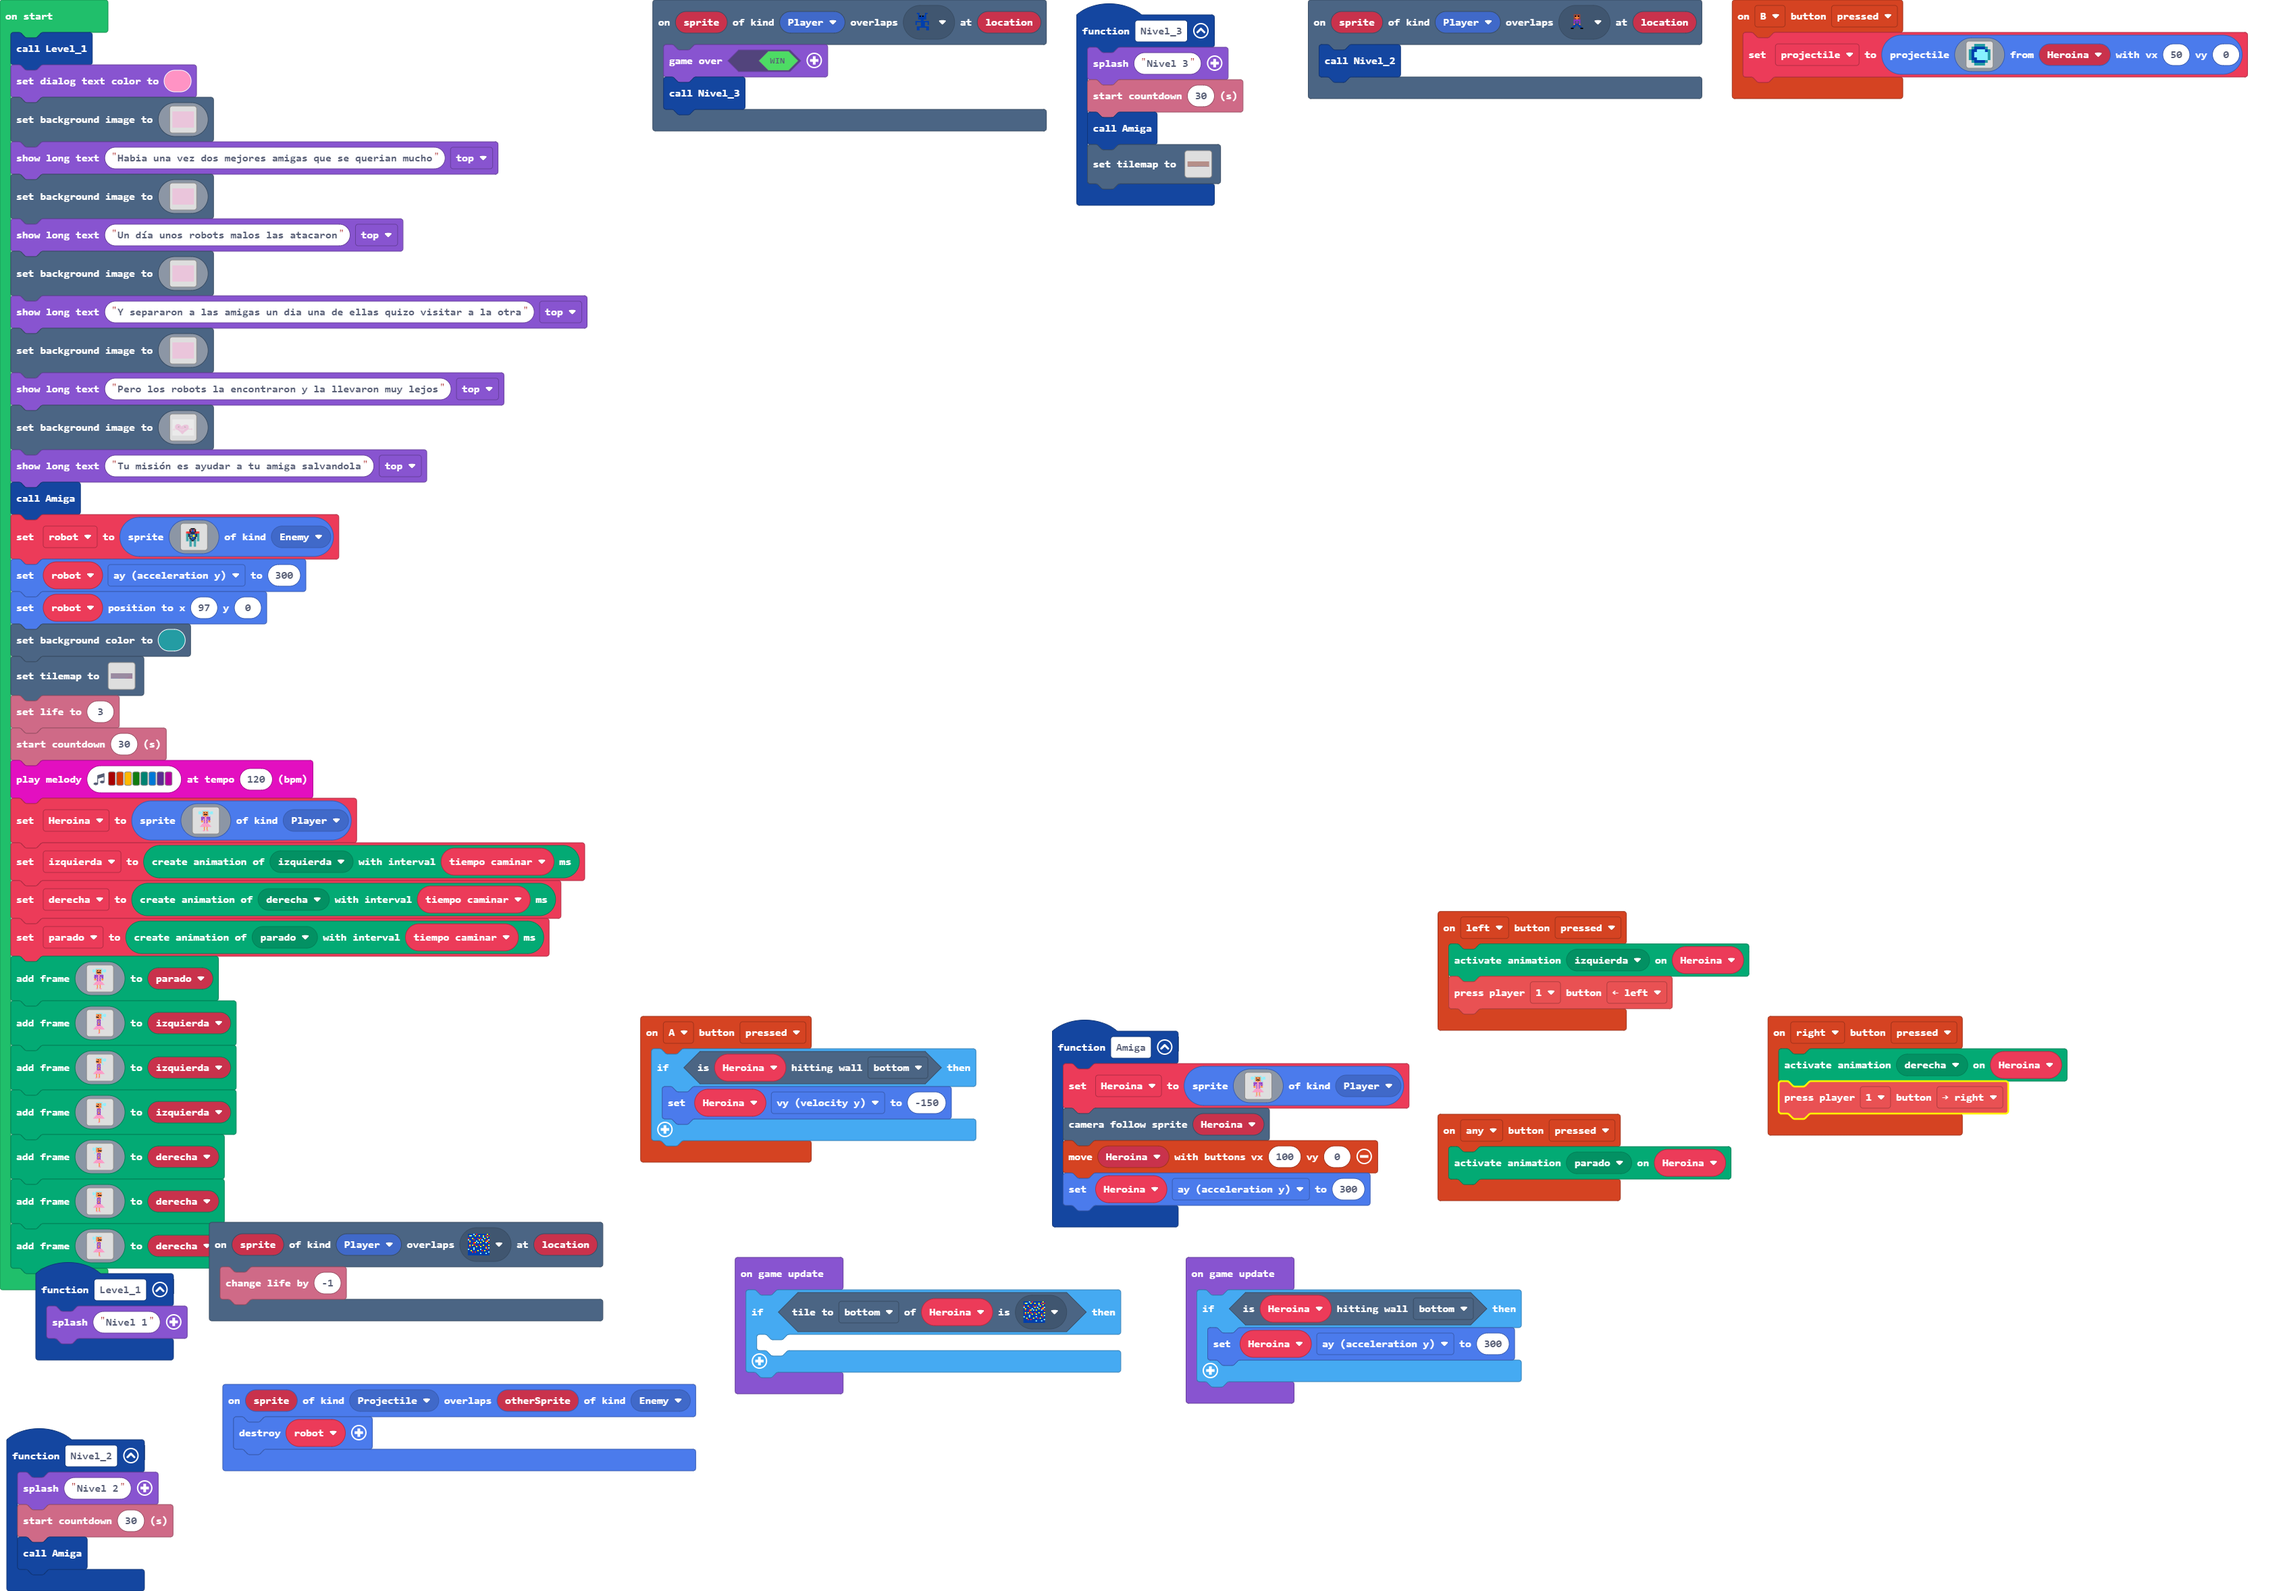
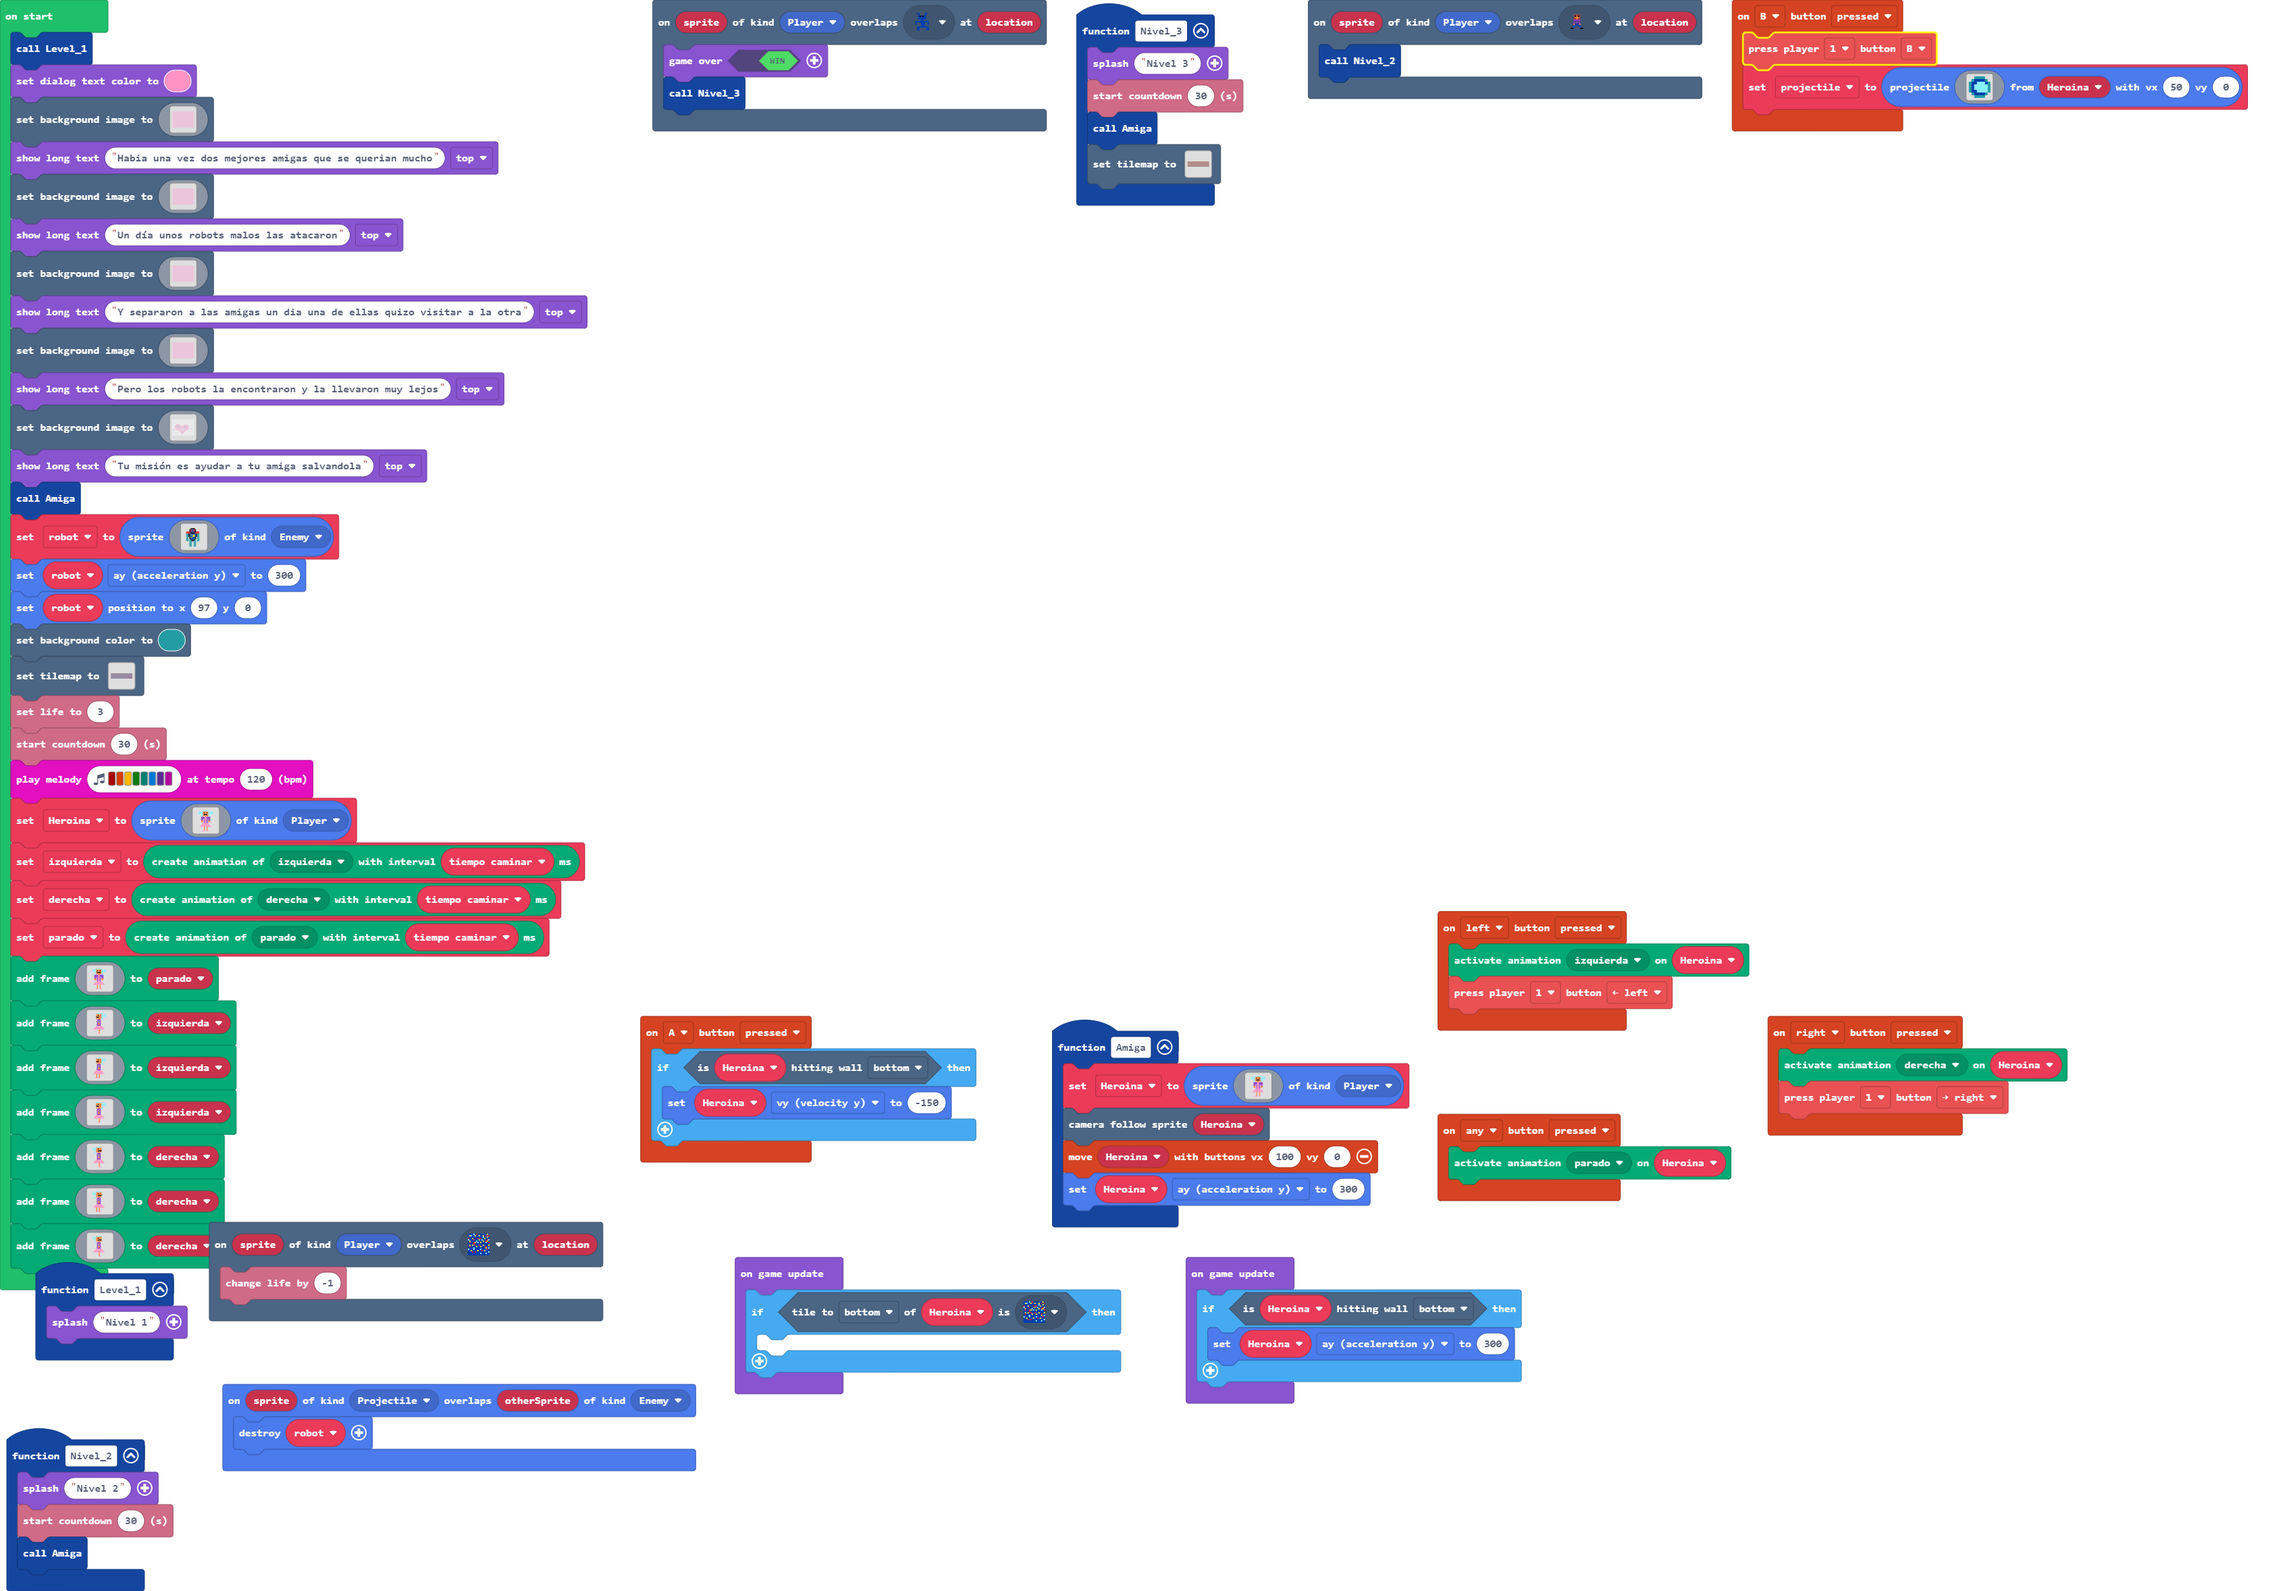
puse para que lance un proyectil con la placa

Changed region(s): [[0.7453, 0.0, 0.9938, 0.093]]

diff --git a/main.ts b/main.ts
@@ -41,6 +41,7 @@ scene.onOverlapTile(SpriteKind.Player, myTiles.tile3, function (sprite, location
     Nivel_2()
 })
 controller.B.onEvent(ControllerButtonEvent.Pressed, function () {
+    makerController.player1.press(ArcadeButton.B)
     projectile = sprites.createProjectileFromSprite(img`
         . . 6 6 6 6 . . 
         . 6 8 8 8 8 6 . 
